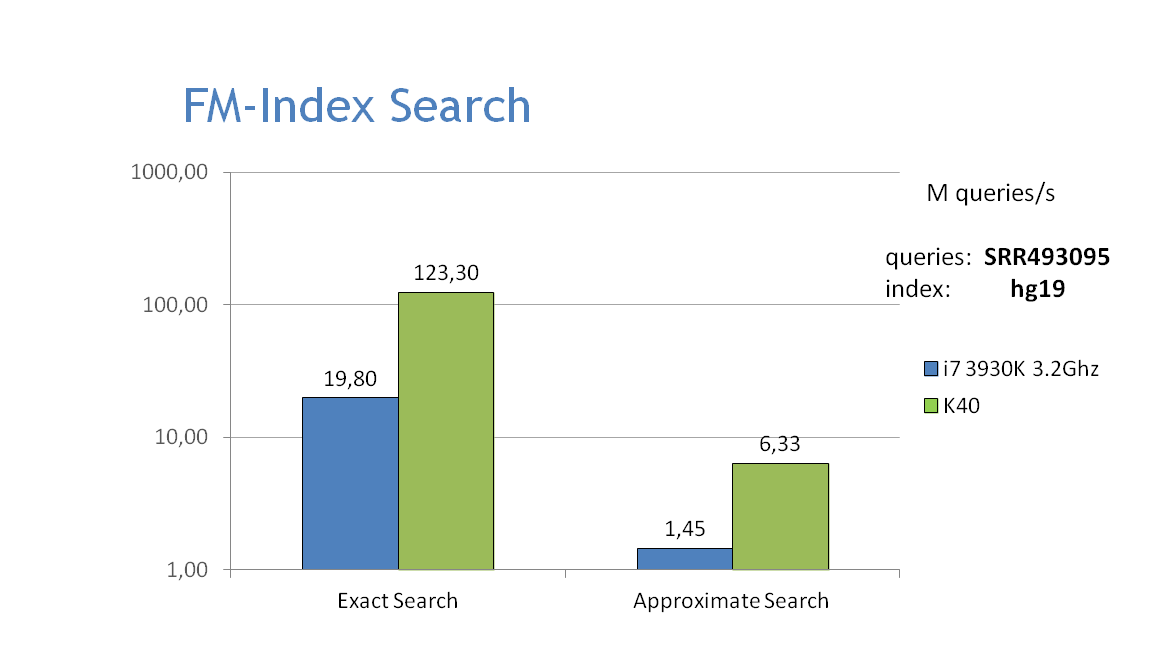
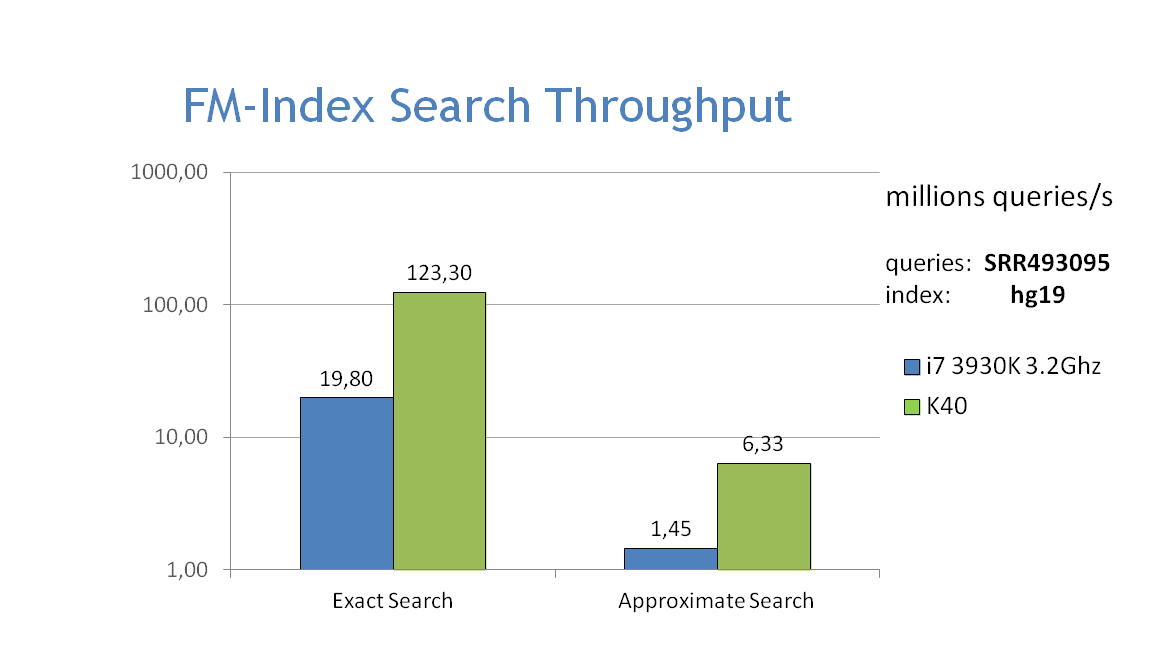
better doxygen documentation
[git-p4: depot-paths = "//sw/gpgpu/nvbio/main/": change = 18180769]

diff --git a/nvbio/fmindex/backtrack.h b/nvbio/fmindex/backtrack.h
@@ -23,8 +23,30 @@
 
 namespace nvbio {
 
+///@addtogroup FMIndex
+///@{
+
 ///
-/// backtrack using the Hamming distance
+/// perform approximate matching using the Hamming distance by backtracking
+///
+/// \tparam String      a string iterator
+/// \tparam Stack       an uint4 array to be used as a backtracking stack
+/// \tparam Delegate    a delegate functor used to process hits, must implement the following interface:
+///\code
+/// struct Delegate
+/// {
+///     // process a series of hits identified by their SA range
+///     void operator() (const uint2 range);
+/// }
+///\endcode
+///
+/// \param fmi          the FM-index
+/// \param pattern      the search pattern
+/// \param len          the pattern length
+/// \param seed         the length of the seed to search with exact matching
+/// \param mismatches   the maximum number of mismatches allowed
+/// \param stack        the stack storage
+/// \param delegate     the delegate functor invoked on hits
 ///
 template <typename FMIndex, typename String, typename Stack, typename Delegate>
 NVBIO_HOST_DEVICE
@@ -135,5 +157,7 @@ void hamming_backtrack(
         }
     }
 }
+
+///@} FMIndex
 
 } // namespace nvbio

diff --git a/nvbio/fmindex/fmindex.h b/nvbio/fmindex/fmindex.h
@@ -192,6 +192,15 @@ namespace nvbio {
 /// </td></tr>
 /// </table>
 ///
+/// \section PerformanceSection Performance
+///
+/// The graphs below show the performance of exact and approximate matching using the FM-index on the CPU and GPU,
+/// searching for 32bp fragments inside the whole human genome. Approximate matching is performed with the hamming_backtrack()
+/// function, in this case allowing up to 1 mismatch per fragment:
+///
+/// <img src="benchmark-fm-index.png" style="position:relative; bottom:-10px; border:0px;" width="50%" height="50%"/>
+/// <img src="benchmark-fm-index-speedup.png" style="position:relative; bottom:-10px; border:0px;" width="50%" height="50%"/>
+///
 /// \section TechnicalOverviewSection Technical Overview
 ///
 /// A complete list of the classes and functions in this module is given in the \ref FMIndex documentation.
